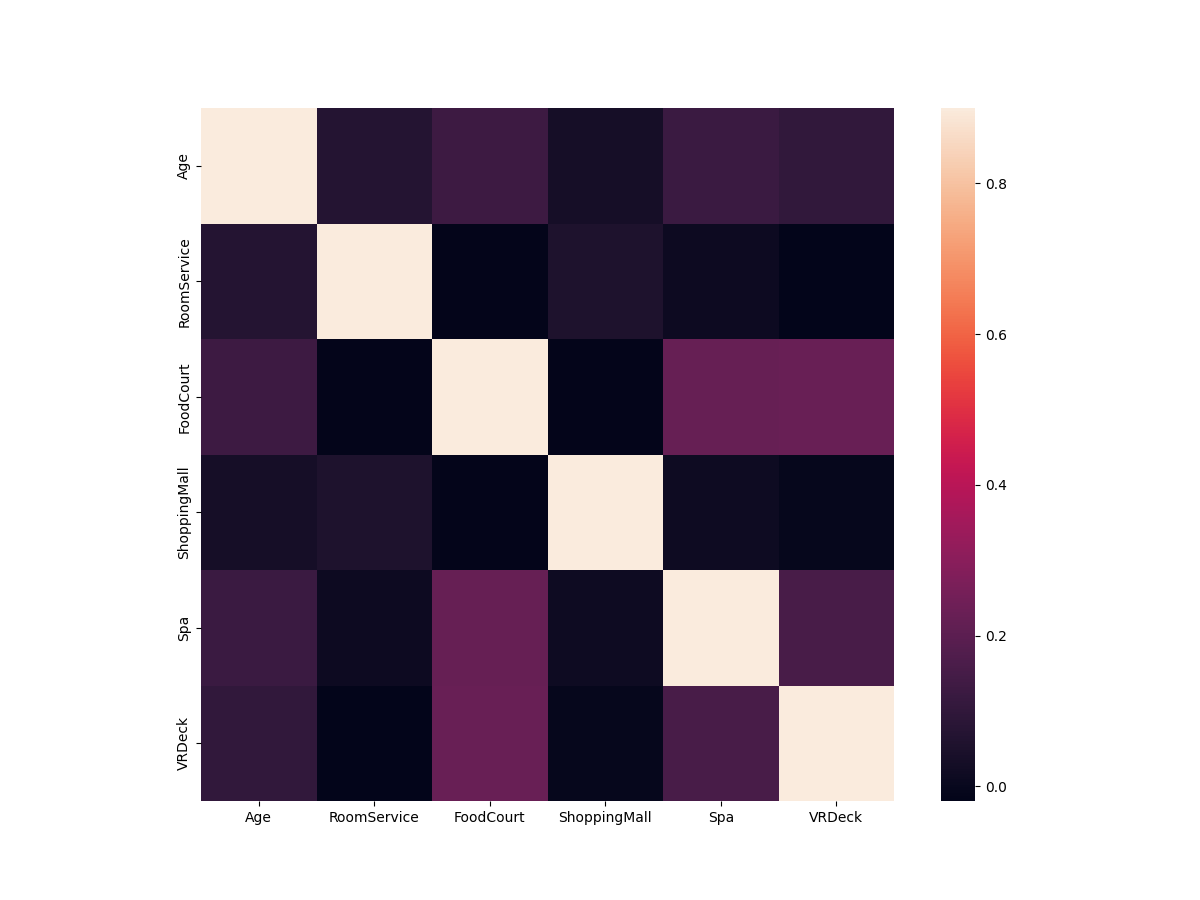
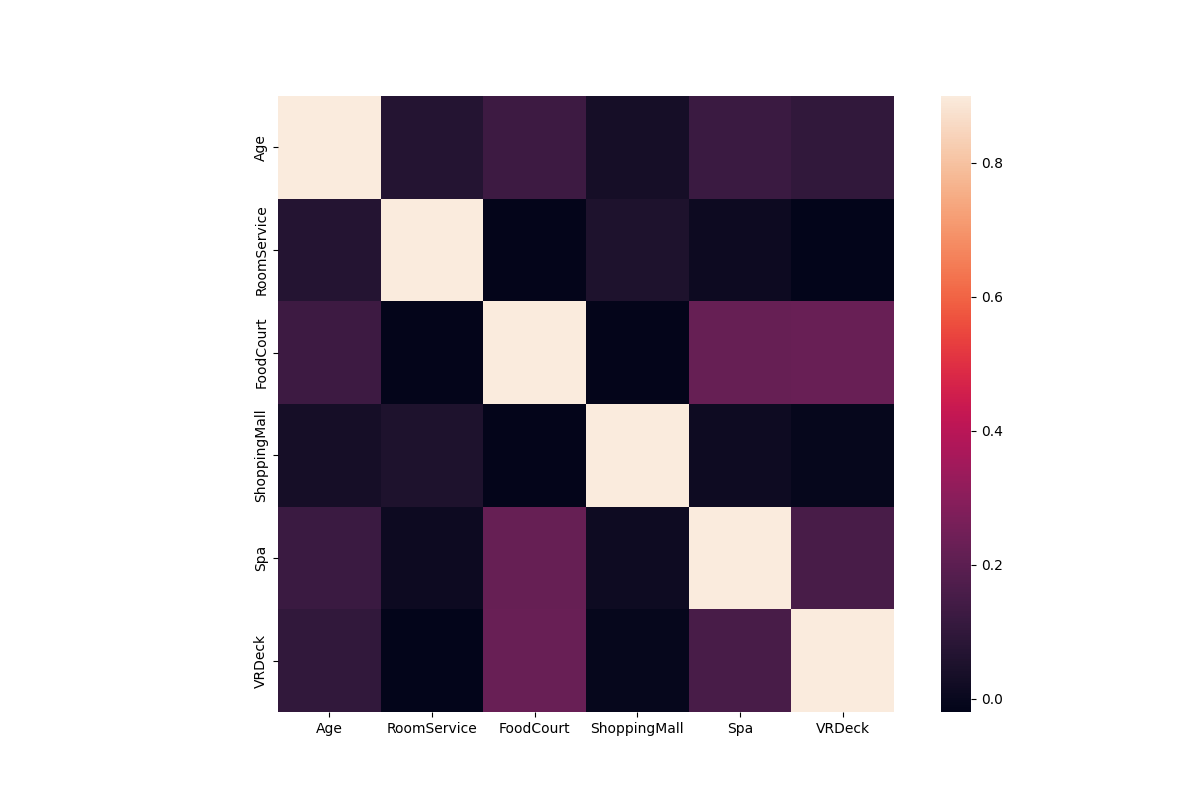
data visalization

diff --git a/titanic-competitions/data_handler.py b/titanic-competitions/data_handler.py
@@ -71,12 +71,17 @@ class Data():
 
         #make the correlation matrix
 
+        #plot 1 
+
         corrmat = self.train[col_lst].corr()
 
-        plt.subplots(figsize=(12,9))
+        plt.figure(figsize=(12, 8))
+
         sns.heatmap(corrmat,vmax=0.9,square=True)
 
         plt.savefig('corr_mat.png')
+
+        plt.clf()
 
         #get the info of the dataset
 
@@ -97,7 +102,26 @@ class Data():
         head_string = self.train.head().to_string()
 
         self.info_to_text(head_string,HEAD_FILE)
-        
+
+        #plot the data in graphs and save 
+
+        #plot 2 
+
+        sns.scatterplot(x="Age", y="Transported", hue="VIP", data=self.train, marker="o", color="b")
+
+        plt.savefig('data_plotting.png')
+
+        plt.clf()
+
+        #plot 3 
+
+        sns.pairplot(data = self.train, hue='Transported', palette='viridis')
+
+        plt.savefig('pair_plotting.png')
+
+        plt.clf()
+
+    
             
 
 
